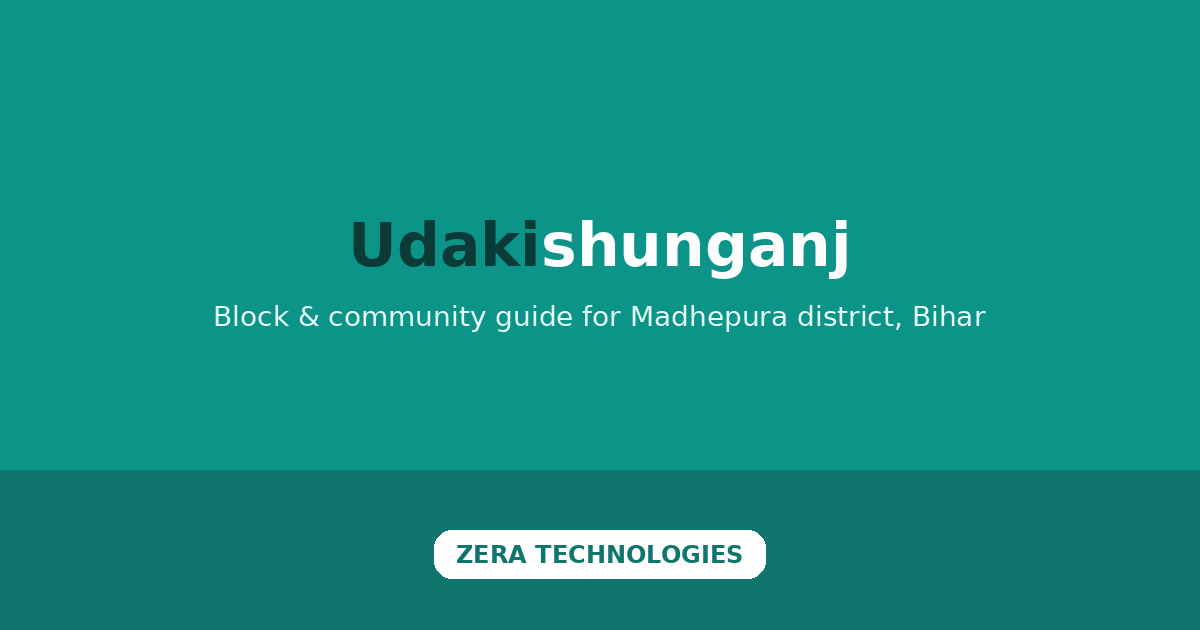
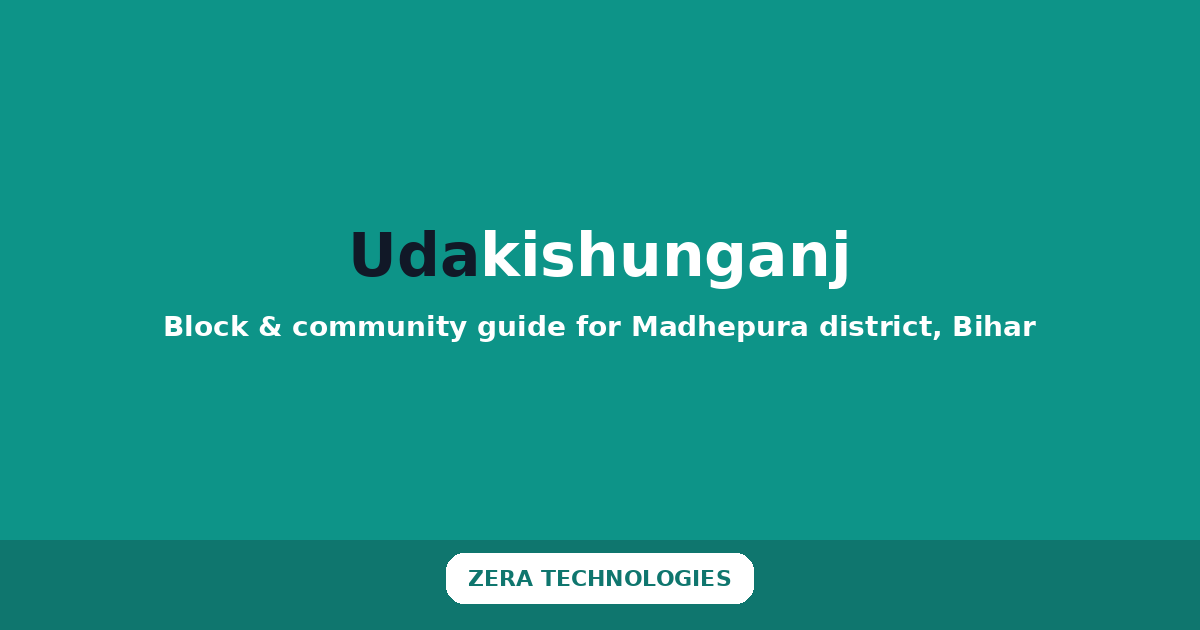
Add files via upload

Changed region(s): [[0.0, 0.7238, 1.0, 0.9651], [0.1233, 0.3317, 0.8633, 0.5429]]

diff --git a/about.html b/about.html
@@ -35,7 +35,7 @@
 
 <header class="site">
   <div class="wrap">
-    <a href="index.html" class="logo">Udaki<span>shunganj</span></a>
+    <a href="index.html" class="logo">Uda<span>kishunganj</span></a>
     <nav class="site">
       <a href="index.html">Guides</a>
       <a href="about.html">About</a>

diff --git a/contact.html b/contact.html
@@ -35,7 +35,7 @@
 
 <header class="site">
   <div class="wrap">
-    <a href="index.html" class="logo">Udaki<span>shunganj</span></a>
+    <a href="index.html" class="logo">Uda<span>kishunganj</span></a>
     <nav class="site">
       <a href="index.html">Guides</a>
       <a href="about.html">About</a>

diff --git a/index.html b/index.html
@@ -51,7 +51,7 @@
 
 <header class="site">
   <div class="wrap">
-    <a href="index.html" class="logo">Udaki<span>shunganj</span></a>
+    <a href="index.html" class="logo">Uda<span>kishunganj</span></a>
     <nav class="site">
       <a href="index.html">Guides</a>
       <a href="about.html">About</a>

diff --git a/privacy.html b/privacy.html
@@ -35,7 +35,7 @@
 
 <header class="site">
   <div class="wrap">
-    <a href="index.html" class="logo">Udaki<span>shunganj</span></a>
+    <a href="index.html" class="logo">Uda<span>kishunganj</span></a>
     <nav class="site">
       <a href="index.html">Guides</a>
       <a href="about.html">About</a>
